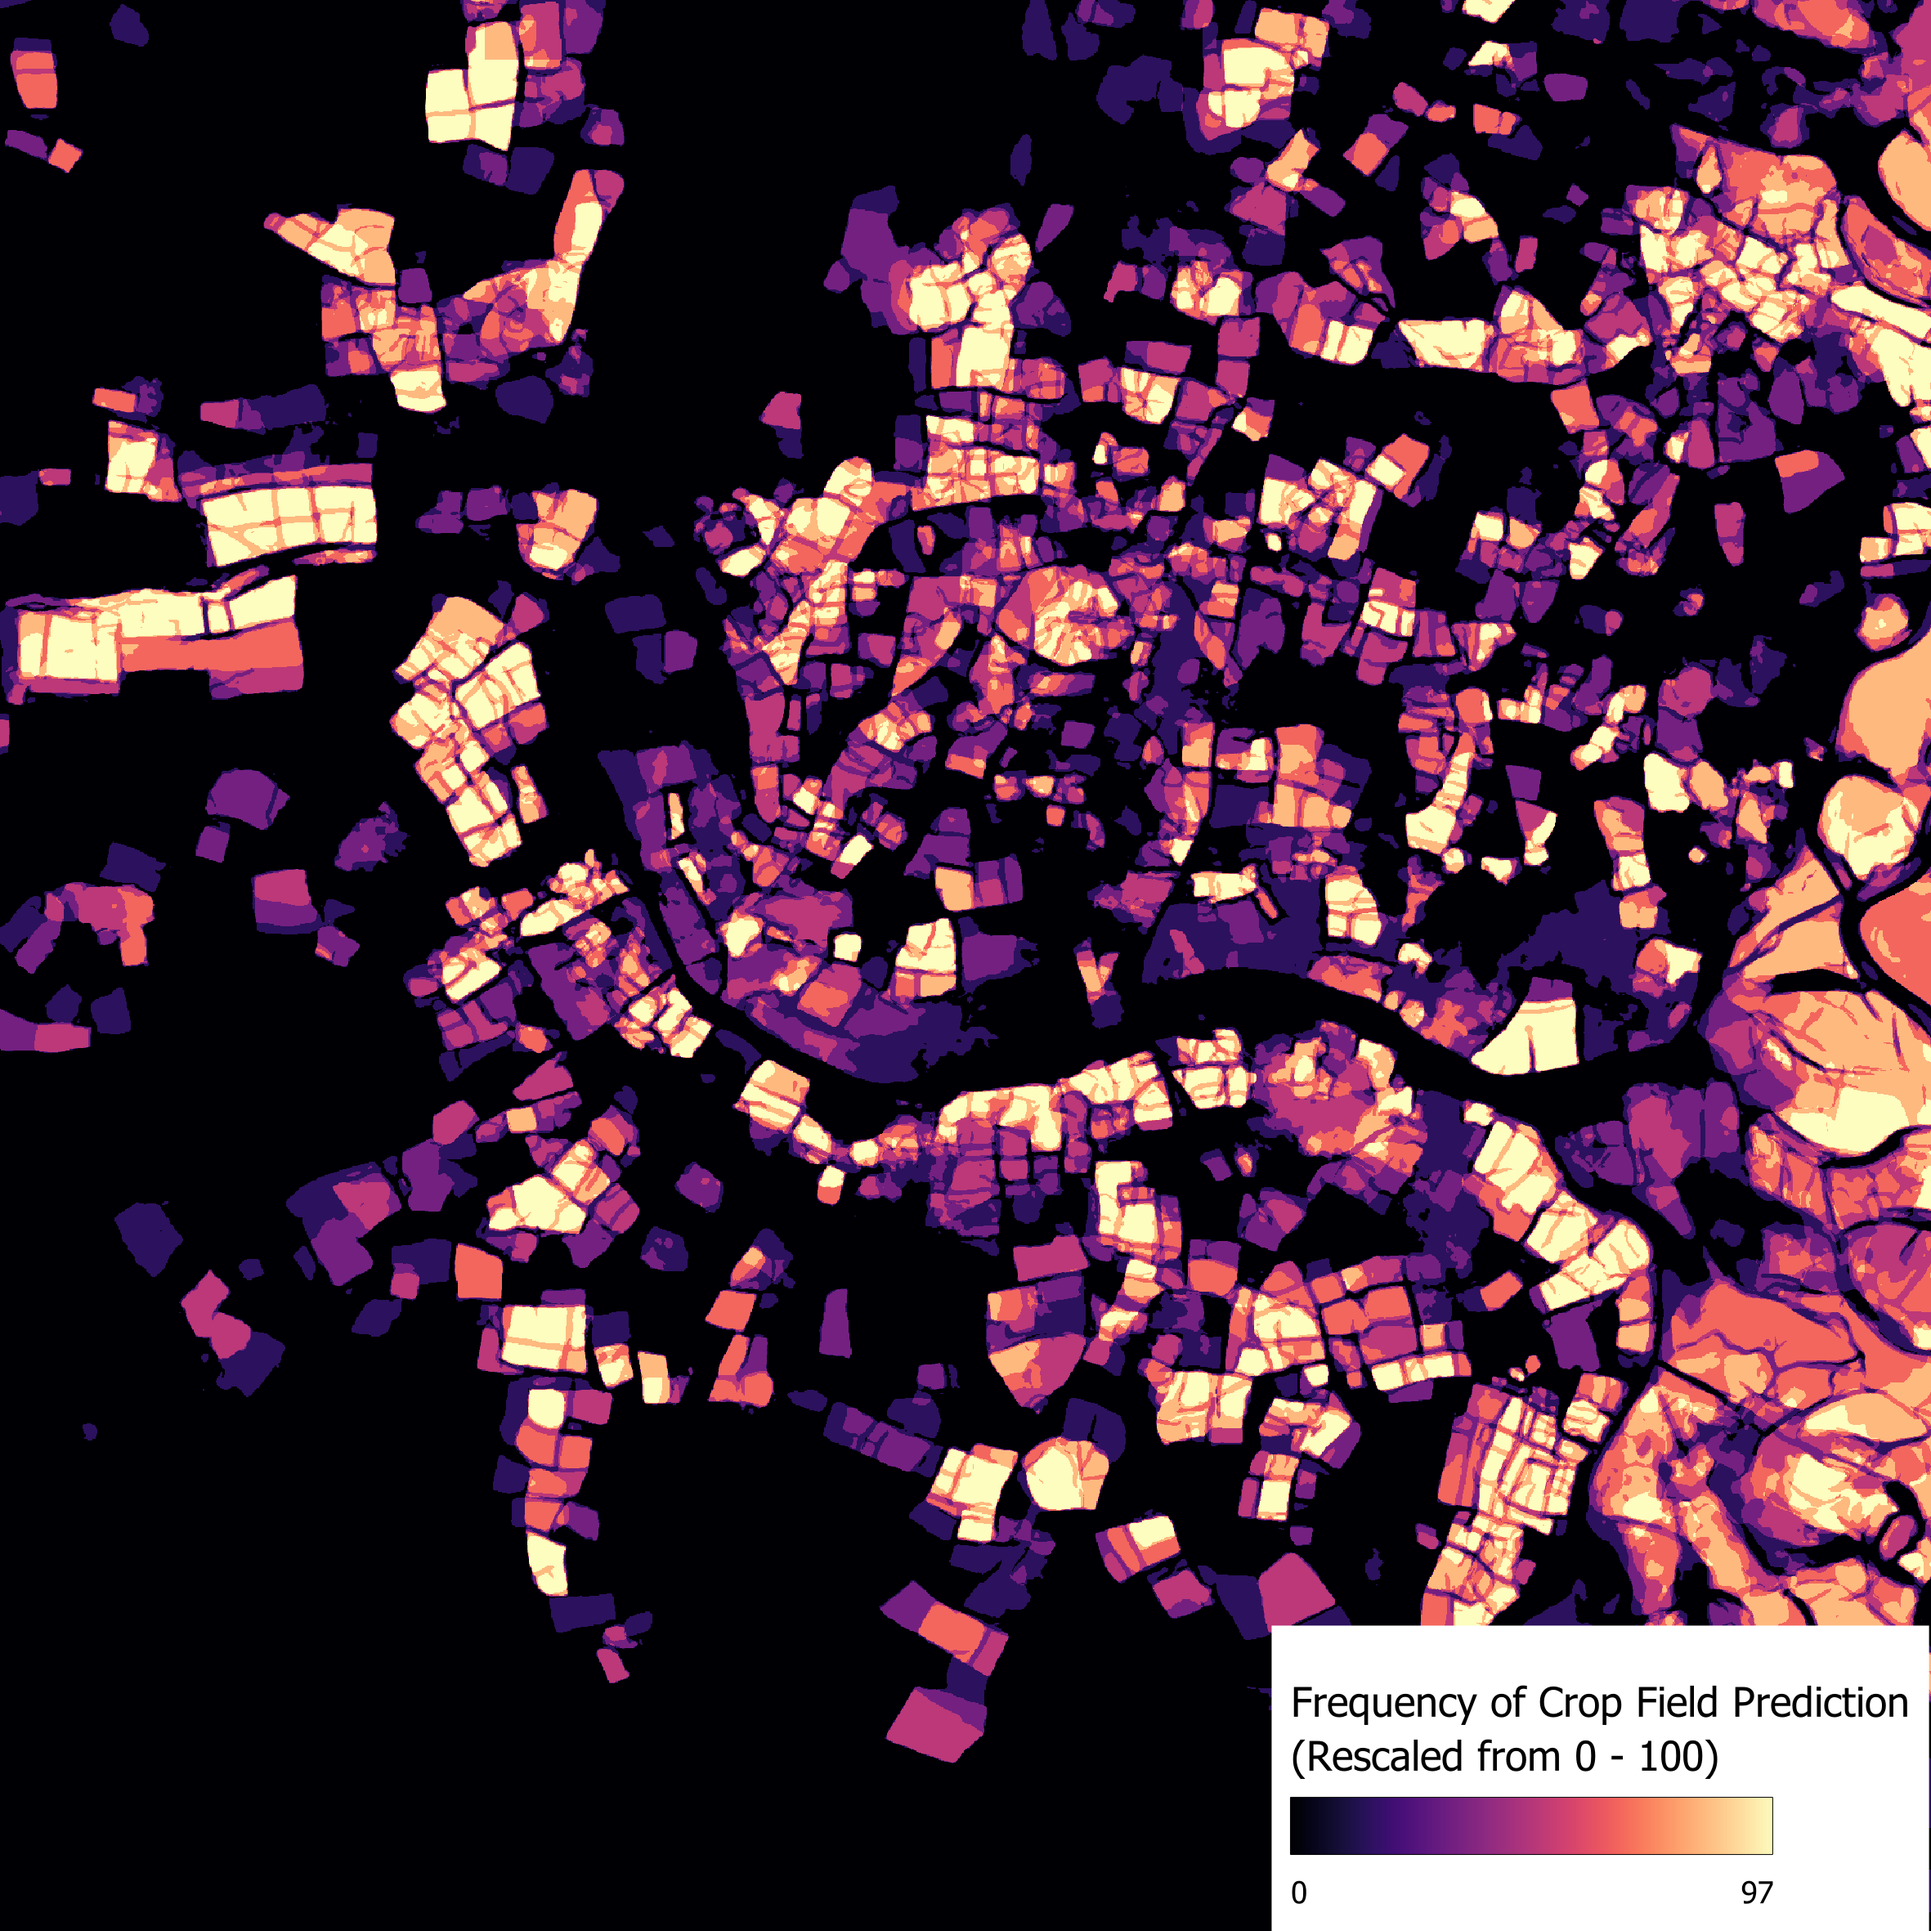
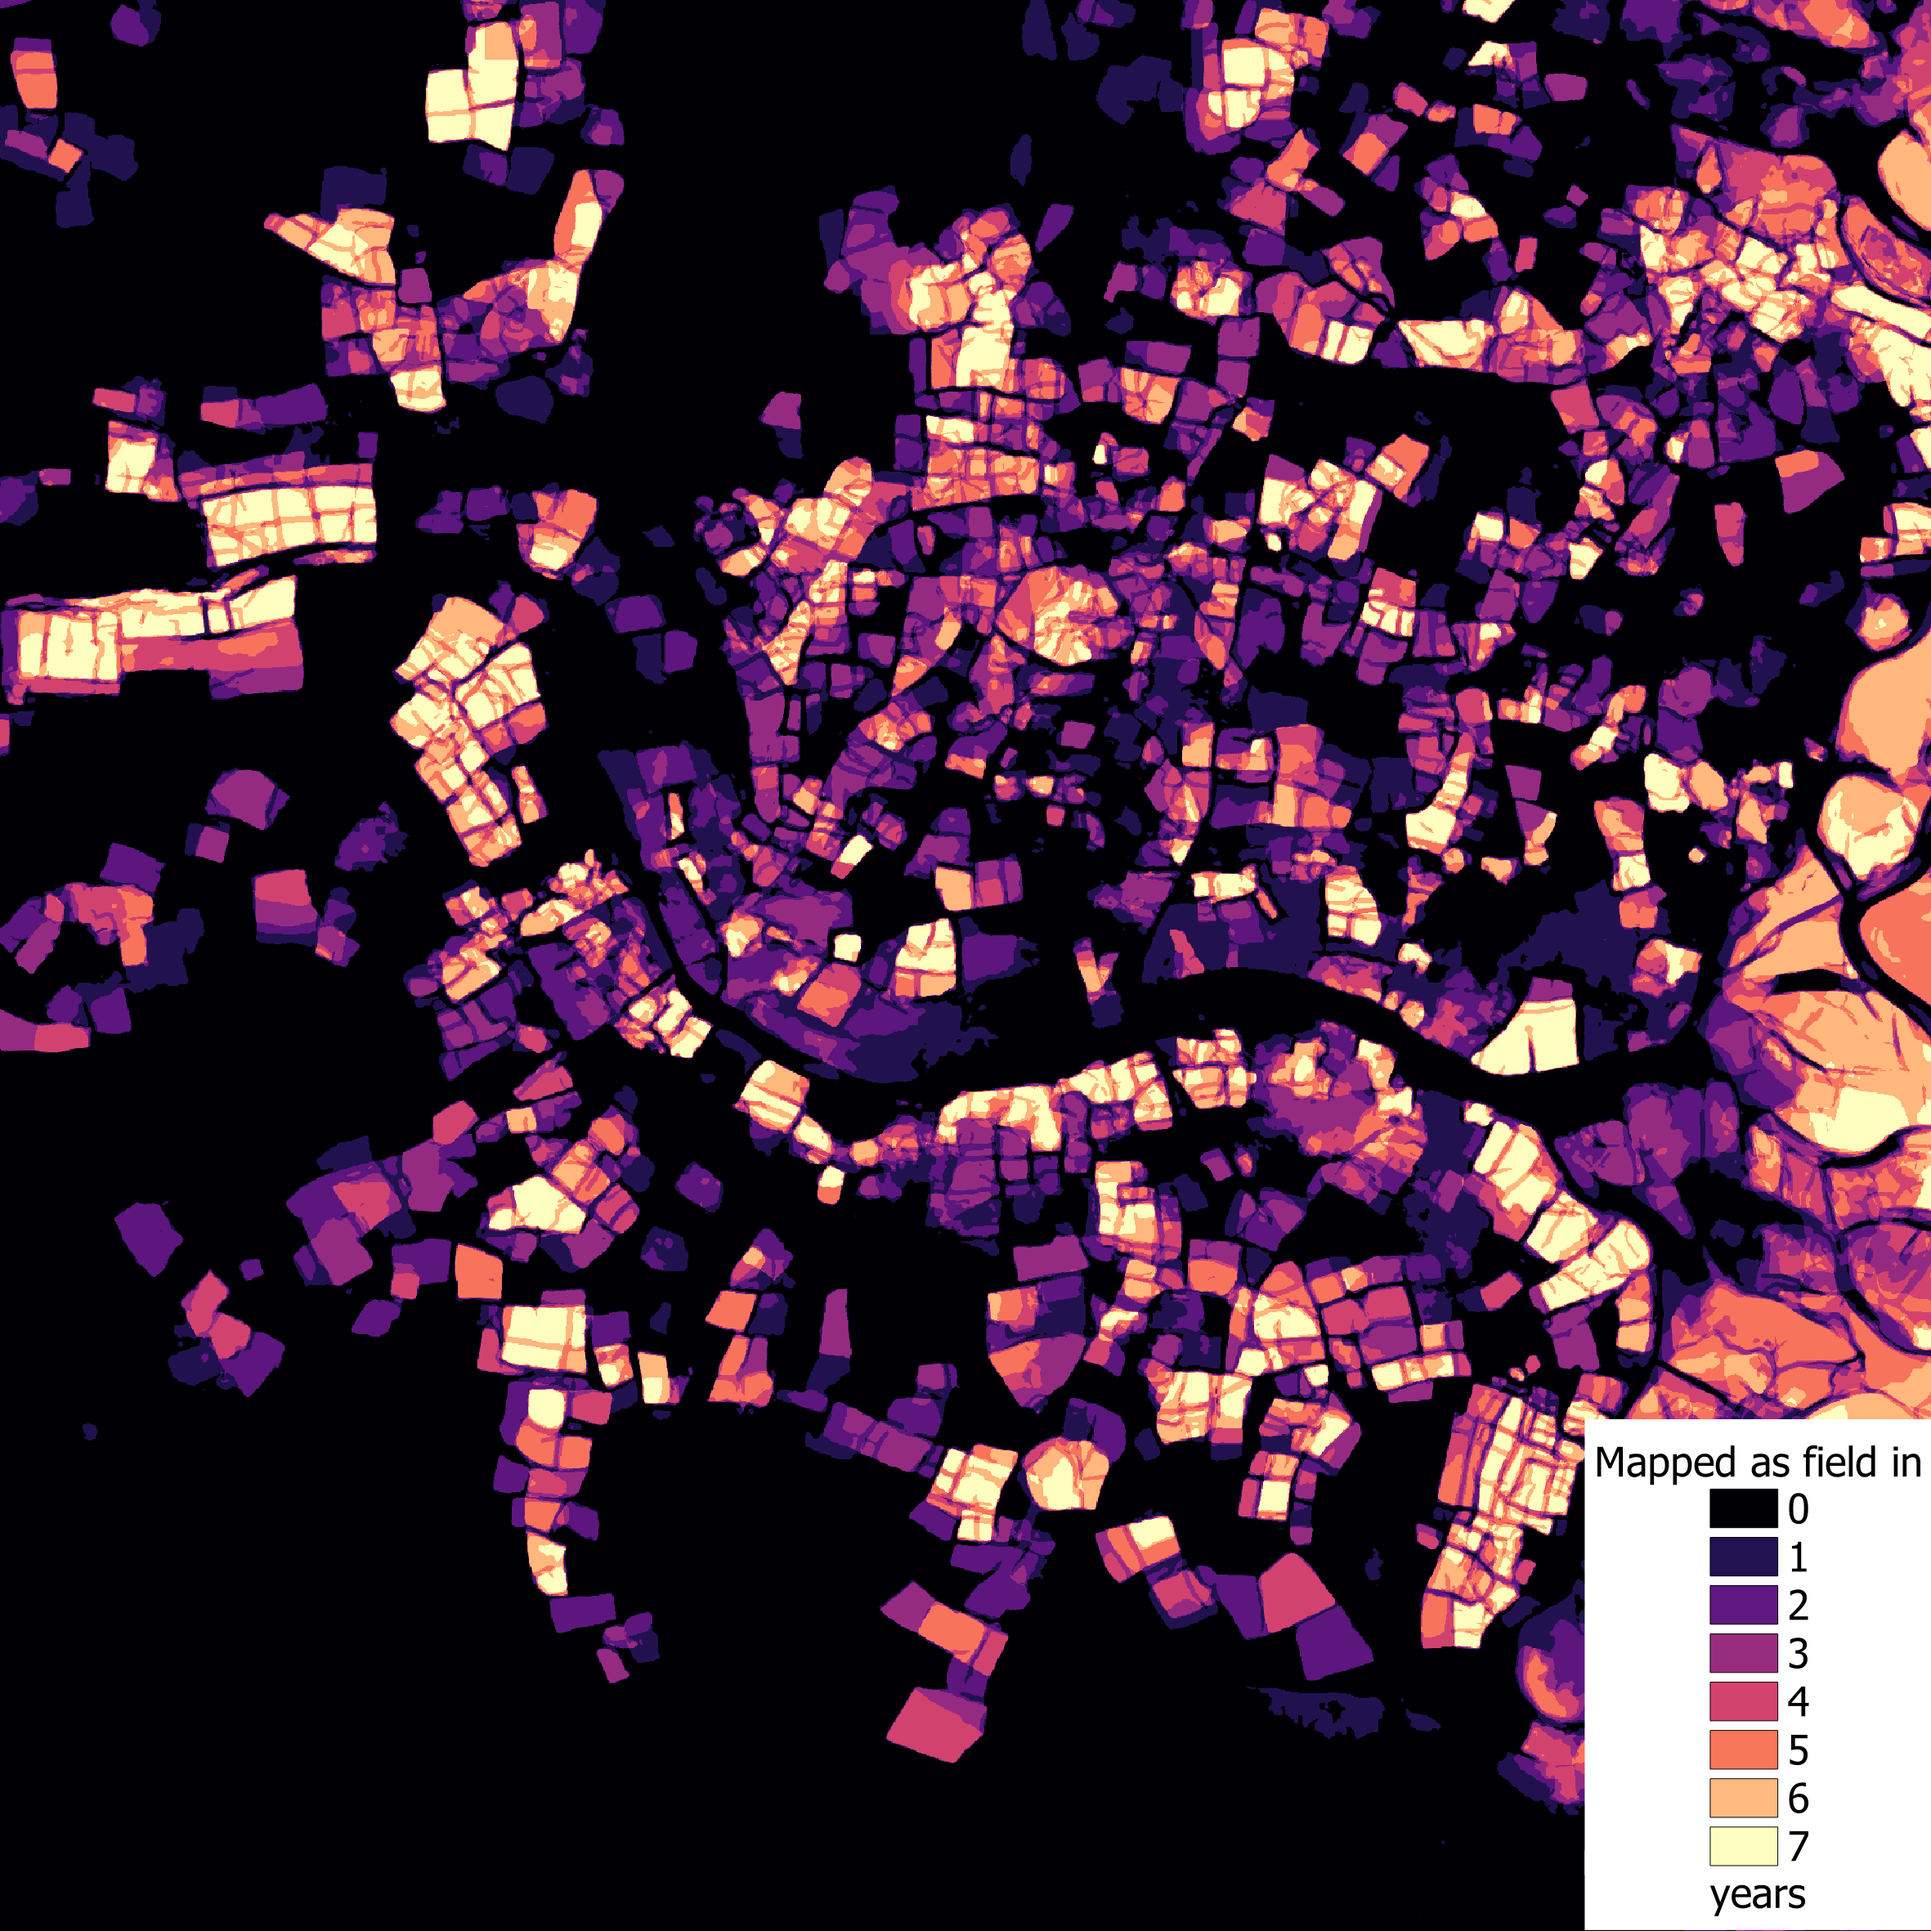
added final RF prediction

diff --git a/README.md b/README.md
@@ -29,6 +29,9 @@ This project uses satellite imagery from the PLANET constellation, provided thro
     - **Enhanced Vegetation Index (EVI)** based on Sentinel-2
     - **Class** variable (derived from Section 1 in notebook)
 
+---
+
+## 3. Training of Prediction of RF Model 
 
 - Parameters for RF model in GEE:
   - `numberOfTrees=500`
@@ -36,11 +39,15 @@ This project uses satellite imagery from the PLANET constellation, provided thro
   - `minLeafPopulation=3`
   - `bagFraction=0.85`
   - `seed=42`
-- Trains the model on the prepared dataset and evaluates feature importance.
+
+- Trains the model on the prepared dataset in **Probability Mode**
+- Applies a probability filter for non-crop predictions of .75
+--> Pixels with probability lower than .75 will be classified as crop, eveything else non-crop
+--> Makes mask more conservative in classifying a pixel as non-crop 
 
 ---
 
-## 3. RF Model Performance & Output
+## 4. RF Model Performance & Output
 
 - Assesses model performance using standard classification metrics and visualizes the spatial prediction outputs.
 
@@ -58,6 +65,11 @@ This project uses satellite imagery from the PLANET constellation, provided thro
 
 <img src="graphs/variable_importance_500_best_2.png" alt="Variable Importance" width="100%">
 
+---
+
+## Post Processing
+
+- Removed speckling effect ("salt and pepper" noise)
 ---
 
 ## Example Predictions
@@ -114,3 +126,16 @@ Please note that The Random Forest model prediction has no-data values where som
 
 **RF Prediction**  
 <img src="graphs/rf_pred_907535.png" alt="RF Prediction" width="100%">
+
+---
+
+### **Example 4**
+
+**Planet Raw**  
+<img src="graphs/planet_raw_835331.png" alt="Planet Raw" width="100%">
+
+**UNET Fractional Prediction**  
+<img src="graphs/fractional_pred_835331.png" alt="Fractional Prediction" width="100%">
+
+**RF Prediction**  
+<img src="graphs/rf_pred_835331.png" alt="RF Prediction" width="100%">
